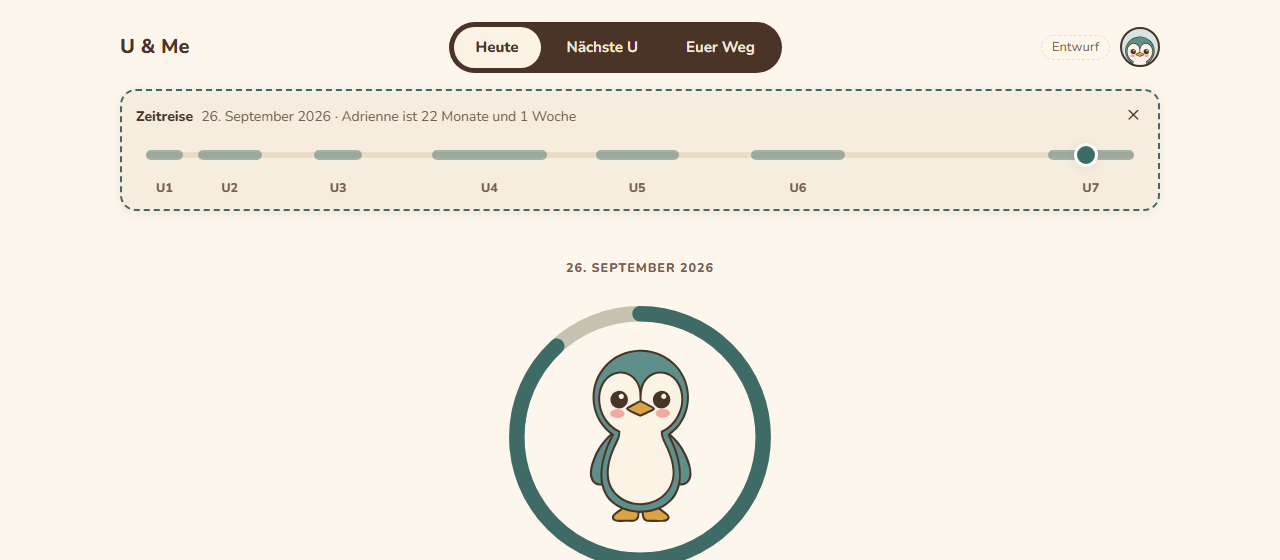
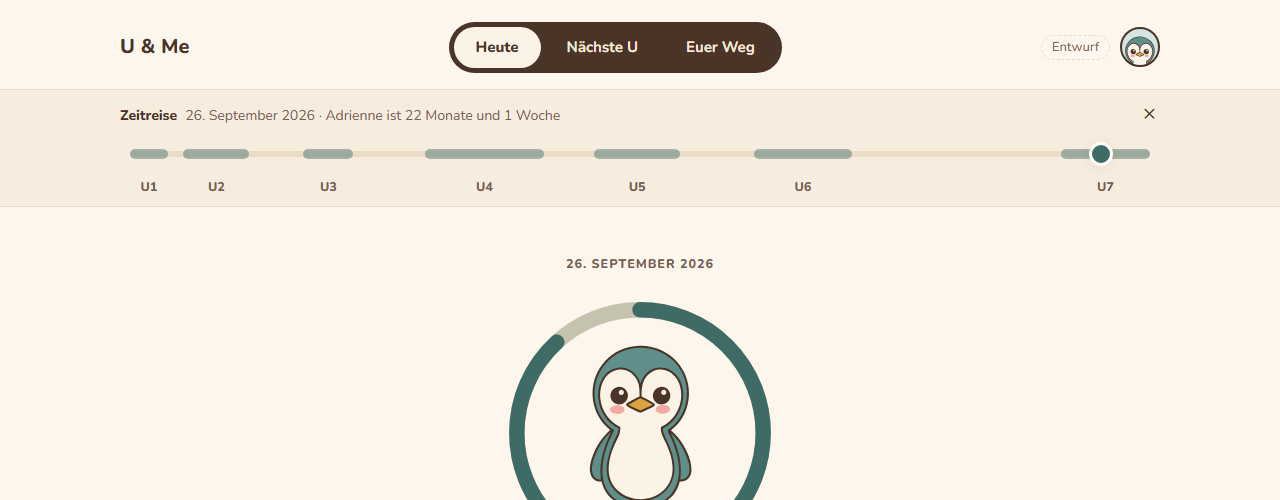
Zeitreise als Band über die volle Breite statt gestrichelter Box

diff --git a/src/styles/app.css b/src/styles/app.css
@@ -283,10 +283,11 @@ fieldset { border: 0; margin: 0; padding: 0; min-width: 0; }
 
 /* ---------- Zeitreise (Test-Werkzeug) ---------- */
 .zeitreise {
-  position: relative;
-  margin: 12px 12px 0; padding: 12px 14px; display: flex; flex-direction: column; gap: 8px;
-  background: var(--farbe-hinweis); border: 2px dashed var(--farbe-akzent); border-radius: var(--radius-s);
-  box-shadow: var(--schatten-weich); font-size: 14px;
+  /* Band über die volle Breite, Inhalt bündig mit der Seite */
+  position: relative; width: 100%;
+  margin: 12px 0 0; padding: 12px 20px 10px; display: flex; flex-direction: column; gap: 8px;
+  background: var(--farbe-hinweis); border-top: 1px solid var(--farbe-linie); border-bottom: 1px solid var(--farbe-linie);
+  font-size: 14px;
 }
 .zeitreise-kopf { display: flex; gap: 8px; align-items: baseline; flex-wrap: wrap; }
 .zeitreise-kopf > span { flex: 1; color: var(--farbe-text-gedaempft); }
@@ -316,5 +317,5 @@ fieldset { border: 0; margin: 0; padding: 0; min-width: 0; }
   .zeitring-grafik { width: 280px; height: 280px; }
   .zeitring-tier { height: 180px; width: 180px; }
   .onboarding { padding-top: 24px; }
-  .zeitreise { max-width: calc(var(--inhalt-max) - 80px); margin: 16px auto 0; }
+  .zeitreise { margin-top: 16px; padding-inline: max(40px, calc((100% - var(--inhalt-max)) / 2 + 40px)); }
 }
